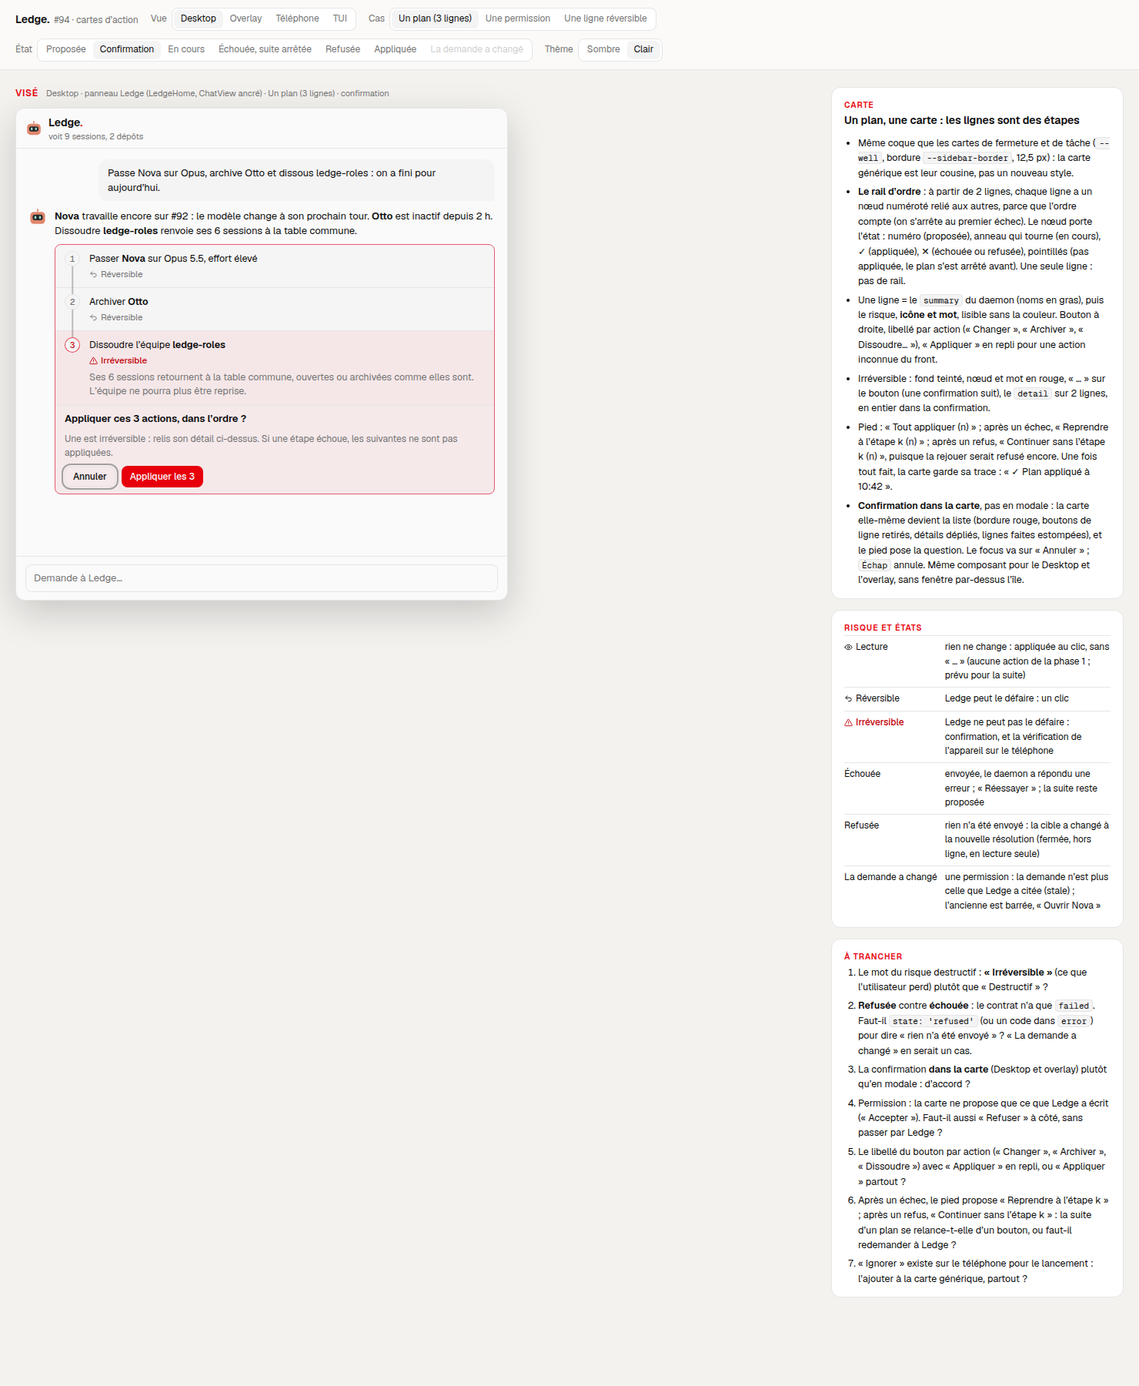
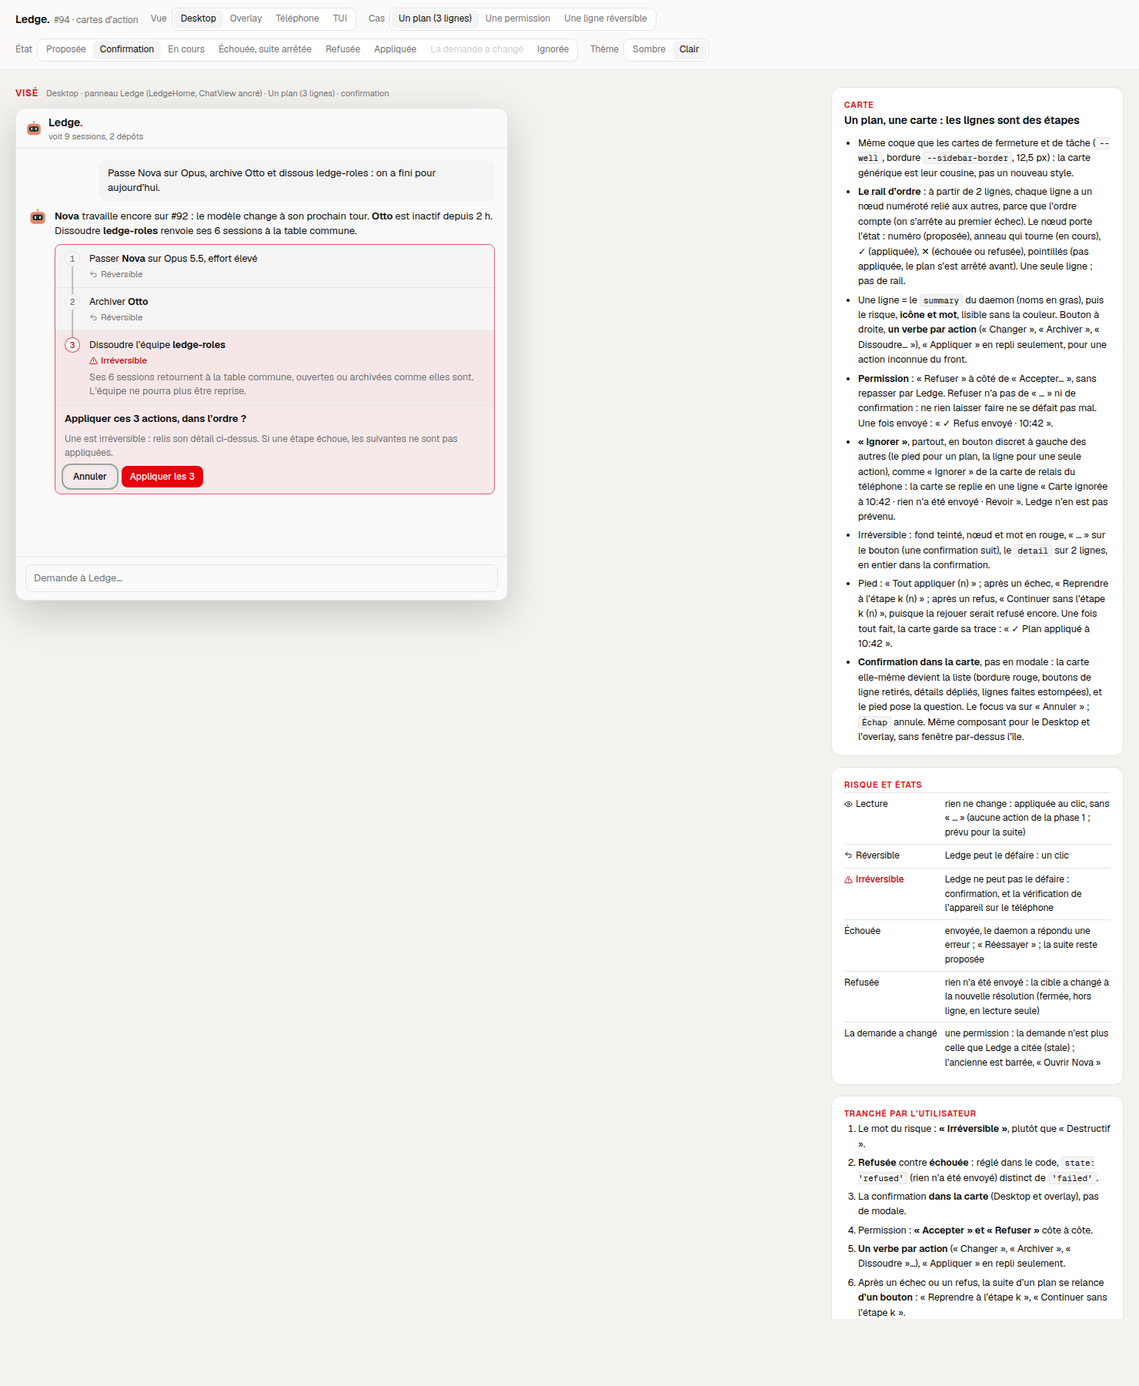
docs(mockups): action cards (#94) follow the user's decisions — Refuser beside Accepter, Ignorer everywhere
« À trancher » becomes « Tranché par l'utilisateur ». A permission offers
Refuser next to Accepter… (n in the TUI); every generic card gets a quiet
Ignorer (esc in the TUI) that folds it into a trace line, a new « Ignorée »
state. Captures redone, plus ignored and permission ones.

Changed region(s): [[0.7459, 0.2178, 0.9635, 0.9644], [0.4662, 0.0311, 0.4973, 0.0622]]

diff --git a/docs/mockups/ledge-action-card.html b/docs/mockups/ledge-action-card.html
@@ -121,6 +121,8 @@ svg.i{width:12px;height:12px;flex:none;fill:none;stroke:currentColor;stroke-widt
 .btn.danger{color:var(--danger-text);border-color:color-mix(in srgb,var(--destructive) 50%,var(--input))}
 .btn.danger.fill{background:var(--destructive);color:var(--destructive-foreground);border-color:transparent;height:28px}
 .btn.ghost{border-color:transparent;color:var(--muted-foreground)}
+.ignored{display:flex;align-items:center;gap:8px;font-size:12px;color:var(--muted-foreground)}
+.ignored .btn{height:22px;padding:0 6px}
 .btn:disabled{opacity:.5;cursor:default}
 .btn:focus-visible{outline:2px solid var(--ring);outline-offset:2px}
 .btn .spin{width:10px;height:10px;border-radius:50%;border:1.5px solid currentColor;border-right-color:transparent;animation:spin .8s linear infinite}
@@ -174,6 +176,10 @@ svg.i{width:12px;height:12px;flex:none;fill:none;stroke:currentColor;stroke-widt
 .pbtn.danger{color:var(--danger-fg);border-color:#f4a5a366}
 .pbtn.danger.fill{background:var(--danger-btn);color:#fff;border-color:transparent;font-weight:600}
 .pbtn.full{width:100%}
+.pbtn.ghost{border-color:transparent;color:var(--muted)}
+.prow .act .pbtn,.pfoot .pbtn{flex:none}
+.pfoot .go{display:flex;gap:8px}
+.pfoot .go .primary{flex:1}
 .pbtn:disabled{opacity:.4}
 .pfoot{display:flex;flex-direction:column;gap:8px}
 .pfoot .hint{font-size:12.5px;color:var(--muted)}
@@ -236,7 +242,7 @@ const CASES = {
         detail: 'Ses 6 sessions retournent à la table commune, ouvertes ou archivées comme elles sont. L’équipe ne pourra plus être reprise.' }
     ],
     // Row states per step of the story: p proposed, run, done, fail, refused, held (not applied: the plan stopped before it).
-    states: { proposed: ['p', 'p', 'p'], confirm: ['p', 'p', 'p'], running: ['done', 'run', 'p'], failed: ['done', 'fail', 'held'], refused: ['done', 'refused', 'held'], done: ['done', 'done', 'done'] },
+    states: { ignored: ['p', 'p', 'p'], proposed: ['p', 'p', 'p'], confirm: ['p', 'p', 'p'], running: ['done', 'run', 'p'], failed: ['done', 'fail', 'held'], refused: ['done', 'refused', 'held'], done: ['done', 'done', 'done'] },
     why: { fail: 'Otto est sur la machine Atlas, hors ligne depuis 10:12.', refused: 'Otto a été fermé entre-temps : il n’y a plus rien à archiver.' }
   },
   permission: {
@@ -244,11 +250,11 @@ const CASES = {
     q: 'Accepte la demande de Nova.',
     a: '**Nova** attend ta réponse depuis 4 min, dans ledge sur feat/task-handoff. Voici sa demande telle quelle :',
     rows: [
-      { action: 'session.decide', risk: 'destructive', sum: 'Accepter la demande de **Nova**', btn: 'Accepter', tui: 'Accepter la demande de Nova',
+      { action: 'session.decide', risk: 'destructive', sum: 'Accepter la demande de **Nova**', btn: 'Accepter', deny: 'Refuser', tui: 'Accepter la demande de Nova',
         request: { kind: 'Bash · reconstruire le daemon', text: 'rm -rf packages/ledge/dist && pnpm --filter @ledge/ledge build' },
         newRequest: { kind: 'Bash', text: 'git push --force origin feat/task-handoff' } }
     ],
-    states: { proposed: ['p'], confirm: ['p'], running: ['run'], failed: ['fail'], refused: ['refused'], done: ['done'], stale: ['stale'] },
+    states: { proposed: ['p'], confirm: ['p'], running: ['run'], failed: ['fail'], refused: ['refused'], done: ['done'], stale: ['stale'], ignored: ['p'] },
     why: { fail: 'Nova s’est arrêtée avant de recevoir la réponse.', refused: 'la machine Atlas est hors ligne.' }
   },
   one: {
@@ -256,11 +262,11 @@ const CASES = {
     q: 'Passe Otto en effort bas, il ne fait que relire.',
     a: '**Otto** tourne sur Sonnet 5.5, effort moyen. Je garde le modèle et baisse l’effort.',
     rows: [{ action: 'session.model', risk: 'reversible', sum: 'Passer **Otto** en effort bas, Sonnet 5.5 inchangé', btn: 'Changer', tui: 'Passer Otto en effort bas, Sonnet 5.5 inchangé' }],
-    states: { proposed: ['p'], confirm: ['p'], running: ['run'], failed: ['fail'], refused: ['refused'], done: ['done'] },
+    states: { proposed: ['p'], confirm: ['p'], running: ['run'], failed: ['fail'], refused: ['refused'], done: ['done'], ignored: ['p'] },
     why: { fail: 'Otto est sur la machine Atlas, hors ligne depuis 10:12.', refused: 'Otto a été fermé entre-temps.' }
   }
 };
-const ETATS = [['proposed', 'Proposée'], ['confirm', 'Confirmation'], ['running', 'En cours'], ['failed', 'Échouée, suite arrêtée'], ['refused', 'Refusée'], ['done', 'Appliquée'], ['stale', 'La demande a changé']];
+const ETATS = [['proposed', 'Proposée'], ['confirm', 'Confirmation'], ['running', 'En cours'], ['failed', 'Échouée, suite arrêtée'], ['refused', 'Refusée'], ['done', 'Appliquée'], ['stale', 'La demande a changé'], ['ignored', 'Ignorée']];
 const AT = '10:42';
 
 function model() {
@@ -279,6 +285,8 @@ function model() {
 }
 
 // ---- Desktop and overlay: one component, ActionCard ----
+// « Ignorer » hides the card, sends nothing; a quiet line keeps its trace in the chat (like the phone's RelayCard).
+const IGNORE = '<button class="btn ghost" type="button">Ignorer</button>';
 function nodeOf(s, i) {
   if (s === 'done') return `<span class="node done" aria-label="Étape ${i + 1}, appliquée">${ic('check', 11)}</span>`;
   if (s === 'fail') return `<span class="node fail" aria-label="Étape ${i + 1}, échouée">${ic('x', 11)}</span>`;
@@ -297,10 +305,10 @@ function rowHTML(m, i, narrow) {
   const dots = r.risk === 'destructive' ? '…' : '';
   let side = '';
   if (asking) side = s === 'done' ? `<span class="st ok">${ic('check', 11)} déjà faite</span>` : '';
-  else if (s === 'p' || s === 'held') side = `<button class="btn${r.risk === 'destructive' ? ' danger' : ''}" type="button">${r.btn}${dots}</button>`;
+  else if (s === 'p' || s === 'held') side = `${!many && s === 'p' ? IGNORE : ''}${r.deny ? `<button class="btn" type="button">${r.deny}</button>` : ''}<button class="btn${r.risk === 'destructive' ? ' danger' : ''}" type="button">${r.btn}${dots}</button>`;
   else if (s === 'run') side = `<button class="btn" type="button" disabled><span class="spin"></span>En cours…</button>`;
   else if (s === 'done') side = `<span class="st ok">${ic('check', 11)} Appliquée · ${AT}</span>`;
-  else if (s === 'fail') side = `<button class="btn" type="button">Réessayer</button>`;
+  else if (s === 'fail') side = `${many ? '' : IGNORE}<button class="btn" type="button">Réessayer</button>`;
   else if (s === 'refused') side = `<span class="st">Refusée</span>`;
   else if (s === 'stale') side = `<button class="btn" type="button">${ic('ext', 11)}Ouvrir Nova</button>`;
   let body = `<div class="sum">${md(r.sum)}</div>`;
@@ -328,10 +336,11 @@ function footHTML(m) {
   if (states.every(s => s === 'done')) return `<div class="afoot"><span class="done-line">${ic('check', 12)} Plan appliqué à ${AT}</span></div>`;
   if (states.includes('run')) return `<div class="afoot"><button class="btn primary" type="button" disabled><span class="spin"></span>Étape ${states.indexOf('run') + 1} sur ${c.rows.length}…</button><span class="hint">dans l’ordre, s’arrête au premier échec</span></div>`;
   const left = open.length, d = destructive.length ? '…' : '';
-  if (stopAt >= 0) return `<div class="afoot"><button class="btn primary" type="button">${ic('play', 10)}${m.all}${d}</button><span class="hint">les étapes faites ne sont pas rejouées</span></div>`;
-  return `<div class="afoot"><button class="btn primary" type="button">${ic('play', 10)}Tout appliquer (${left})${d}</button><span class="hint">dans l’ordre, s’arrête au premier échec${destructive.length ? ` · ${destructive.length} irréversible, je te redemanderai` : ''}</span></div>`;
+  if (stopAt >= 0) return `<div class="afoot"><button class="btn primary" type="button">${ic('play', 10)}${m.all}${d}</button><span class="hint">les étapes faites ne sont pas rejouées</span>${IGNORE}</div>`;
+  return `<div class="afoot"><button class="btn primary" type="button">${ic('play', 10)}Tout appliquer (${left})${d}</button><span class="hint">dans l’ordre, s’arrête au premier échec${destructive.length ? ` · ${destructive.length} irréversible, je te redemanderai` : ''}</span>${IGNORE}</div>`;
 }
 function card(m, narrow) {
+  if (st.etat === 'ignored') return `<div class="ignored">${ic('x', 11)}${m.many ? `Plan de ${m.c.rows.length} actions ignoré` : 'Carte ignorée'} à ${AT} · rien n’a été envoyé<button class="btn ghost" type="button">Revoir</button></div>`;
   return `<section class="acard${m.many ? '' : ' one'}${m.asking ? ' asking' : ''}" aria-label="${m.many ? `Plan de ${m.c.rows.length} actions` : 'Action proposée'}">${m.c.rows.map((_, i) => rowHTML(m, i, narrow)).join('')}${footHTML(m)}</section>`;
 }
 function chatTurn(m, narrow) {
@@ -358,10 +367,10 @@ function phone() {
   const rows = c.rows.map((r, i) => {
     const s = states[i];
     let act = '';
-    if (s === 'p' || s === 'held') act = `<button class="pbtn${r.risk === 'destructive' ? ' danger' : ''}" type="button">${r.btn}${r.risk === 'destructive' ? '…' : ''}</button>`;
+    if (s === 'p' || s === 'held') act = `${!many && s === 'p' ? '<button class="pbtn ghost" type="button">Ignorer</button>' : ''}${r.deny ? `<button class="pbtn" type="button">${r.deny}</button>` : ''}<button class="pbtn${r.risk === 'destructive' ? ' danger' : ''}" type="button">${r.btn}${r.risk === 'destructive' ? '…' : ''}</button>`;
     else if (s === 'run') act = `<span class="st">En cours…</span>`;
     else if (s === 'done') act = `<span class="st ok">✓ Appliquée · ${AT}</span>`;
-    else if (s === 'fail') act = `<button class="pbtn" type="button">Réessayer</button>`;
+    else if (s === 'fail') act = `${many ? '' : '<button class="pbtn ghost" type="button">Ignorer</button>'}<button class="pbtn" type="button">Réessayer</button>`;
     else if (s === 'refused') act = `<span class="st">Refusée</span>`;
     else if (s === 'stale') act = `<a class="pbtn" style="text-decoration:none">Ouvrir Nova</a>`;
     let body = `<div class="sum">${md(r.sum)}</div><div class="meta">${riskChip(r.risk)}</div>`;
@@ -376,7 +385,7 @@ function phone() {
   let foot = '';
   if (many && states.every(s => s === 'done')) foot = `<div class="pfoot"><span class="st ok" style="color:var(--ok);font-size:13px">✓ Plan appliqué à ${AT}</span></div>`;
   else if (many && states.includes('run')) foot = `<div class="pfoot"><button class="pbtn primary full" type="button" disabled>Étape ${states.indexOf('run') + 1} sur ${c.rows.length}…</button></div>`;
-  else if (many) foot = `<div class="pfoot"><button class="pbtn primary full" type="button">${m.all}${destructive.length ? '…' : ''}</button><span class="hint">Dans l’ordre ; s’arrête au premier échec.</span></div>`;
+  else if (many) foot = `<div class="pfoot"><div class="go"><button class="pbtn ghost" type="button">Ignorer</button><button class="pbtn primary" type="button">${m.all}${destructive.length ? '…' : ''}</button></div><span class="hint">Dans l’ordre ; s’arrête au premier échec.</span></div>`;
   const sheetRows = open.map((i, k) => {
     const r = c.rows[i];
     return `<li class="prow ${r.risk}${k === open.length - 1 ? ' last' : ''}" style="border:0;padding:0${many ? '' : ';grid-template-columns:minmax(0,1fr)'}">${many ? nodeOf('p', i) : ''}<div><div class="sum">${md(r.sum)}</div><div class="meta">${riskChip(r.risk)}</div>${r.detail ? `<div class="detail">${esc(r.detail)}</div>` : ''}${r.request ? request(r) : ''}</div></li>`;
@@ -392,7 +401,7 @@ function phone() {
     <div class="phone"><div class="status"><span>10:41</span><span>●●● ▮</span></div>
       <div class="ph-head"><span style="color:var(--muted)">${ic('chev', 18)}</span>${bot(22)}<b>Ledge</b></div>
       <div class="ph-body"><span class="q">${esc(c.q)}</span><p class="answer">${md(c.a)}</p>
-        <section class="pcard${many ? '' : ' one'}" aria-label="${many ? 'Plan' : 'Action proposée'}">${rows}${foot}</section></div>${sheet}</div>`;
+        ${st.etat === 'ignored' ? `<p class="st" style="margin:0;font-size:13px;color:var(--muted)">${many ? `Plan de ${c.rows.length} actions ignoré` : 'Carte ignorée'} à ${AT} · rien n’a été envoyé · <u>Revoir</u></p>` : `<section class="pcard${many ? '' : ' one'}" aria-label="${many ? 'Plan' : 'Action proposée'}">${rows}${foot}</section>`}</div>${sheet}</div>`;
 }
 
 // ---- The TUI: the Ask screen, the card as a TitledBox ----
@@ -427,13 +436,14 @@ function tui() {
   conv.push([[`  lu : les sessions · teams.md`, 'c-faint']]);
   conv.push([['']]);
   for (const l of wrapText(plain(c.a), W - 8)) conv.push([['  '], [l, 'c-fg']]);
+  if (st.etat === 'ignored') { conv.push([['']]); conv.push([[`  · ${many ? `plan de ${c.rows.length} actions ignoré` : 'carte ignorée'} à ${AT}, rien n’a été envoyé`, 'c-faint']]); }
   if (states.every(s => s === 'done')) { conv.push([['']]); conv.push([[`  ✓ ${many ? `Plan appliqué à ${AT} : Nova sur Opus 5.5 · Otto archivé · ledge-roles dissoute` : `${plain(c.rows[0].sum)} · ${AT}`}`, 'c-green']]); }
   L.push(boxTop('Ledge · Opérateur · voit 9 sessions, 1 machine', 'c-line', 'c-dim'));
   for (const s of conv) L.push(inBox(s, 'c-line'));
   for (let i = conv.length; i < 9; i++) L.push(inBox([['']], 'c-line'));
   L.push(bottom('c-line'));
   // The card, while something is left to do.
-  const settled = states.every(s => s === 'done');
+  const settled = states.every(s => s === 'done') || st.etat === 'ignored';
   if (!settled) {
     const asking = m.asking;
     const border = asking ? 'c-red dbl' : 'c-coral';
@@ -471,8 +481,9 @@ function tui() {
     else {
       const r = c.rows[focusRow] ?? c.rows[0];
       const rowBtn = btn(states[focusRow] === 'fail' ? 'Réessayer' : `${r.btn}${r.risk === 'destructive' ? '…' : ''}`, '↵', r.risk === 'destructive' ? '-d' : '-p');
-      keys = many ? [...rowBtn, ['  '], ...btn(`${m.all}${destructive.length ? '…' : ''}`, 'a'), ['   ↑↓ choisir · dans l’ordre, s’arrête au premier échec', 'c-faint']]
-        : [...rowBtn, ['   Ledge ne fait rien sans toi.', 'c-faint']];
+      const deny = r.deny && states[focusRow] === 'p' ? [['  '], ...btn(r.deny, 'n')] : [];
+      keys = many ? [...rowBtn, ['  '], ...btn(`${m.all}${destructive.length ? '…' : ''}`, 'a'), ['  '], ...btn('Ignorer', 'esc'), ['   ↑↓ choisir', 'c-faint']]
+        : [...rowBtn, ...deny, ['  '], ...btn('Ignorer', 'esc'), ['   Ledge ne fait rien sans toi.', 'c-faint']];
     }
     L.push(inBox(keys, border));
     L.push(bottom(border));
@@ -482,7 +493,7 @@ function tui() {
   L.push(bottom('c-line'));
   const keybar = m.asking ? [['y', 'c-fg'], [' appliquer   ', 'c-dim'], ['esc', 'c-fg'], [' annuler', 'c-dim']]
     : settled || st.etat === 'stale' ? [['tab', 'c-fg'], [' carte suivante   ', 'c-dim'], ['ctrl+n', 'c-fg'], [' nouvelle   ', 'c-dim'], ['esc', 'c-fg'], [' retour', 'c-dim']]
-    : [['↵', 'c-fg'], [many ? ' appliquer la ligne   ' : ' appliquer   ', 'c-dim'], ...(many ? [['a', 'c-fg'], [' tout appliquer   ', 'c-dim'], ['↑↓', 'c-fg'], [' ligne   ', 'c-dim']] : []), ['tab', 'c-fg'], [' carte suivante   ', 'c-dim'], ['ctrl+n', 'c-fg'], [' nouvelle   ', 'c-dim'], ['esc', 'c-fg'], [' retour', 'c-dim']];
+    : [['↵', 'c-fg'], [many ? ' appliquer la ligne   ' : ' appliquer   ', 'c-dim'], ...(many ? [['a', 'c-fg'], [' tout appliquer   ', 'c-dim'], ['↑↓', 'c-fg'], [' ligne   ', 'c-dim']] : []), ...(st.cas === 'permission' ? [['n', 'c-fg'], [' refuser   ', 'c-dim']] : []), ['esc', 'c-fg'], [' ignorer   ', 'c-dim'], ['tab', 'c-fg'], [' carte suivante   ', 'c-dim'], ['ctrl+n', 'c-fg'], [' nouvelle', 'c-dim']];
   L.push(ln([[' '], ...keybar]));
   return `<p class="cap"><b>Visé</b> TUI · l’écran Demander, ${W} colonnes · ${esc(c.label)} · ${label()}</p><div class="term">${L.join('')}</div>`;
 }
@@ -492,13 +503,16 @@ const NOTES = {
   card: `<div class="note"><h3>Carte</h3><h4>Un plan, une carte : les lignes sont des étapes</h4><ul>
     <li>Même coque que les cartes de fermeture et de tâche (<code>--well</code>, bordure <code>--sidebar-border</code>, 12,5 px) : la carte générique est leur cousine, pas un nouveau style.</li>
     <li><b>Le rail d’ordre</b> : à partir de 2 lignes, chaque ligne a un nœud numéroté relié aux autres, parce que l’ordre compte (on s’arrête au premier échec). Le nœud porte l’état : numéro (proposée), anneau qui tourne (en cours), ✓ (appliquée), ✕ (échouée ou refusée), pointillés (pas appliquée, le plan s’est arrêté avant). Une seule ligne : pas de rail.</li>
-    <li>Une ligne = le <code>summary</code> du daemon (noms en gras), puis le risque, <b>icône et mot</b>, lisible sans la couleur. Bouton à droite, libellé par action (« Changer », « Archiver », « Dissoudre… »), « Appliquer » en repli pour une action inconnue du front.</li>
+    <li>Une ligne = le <code>summary</code> du daemon (noms en gras), puis le risque, <b>icône et mot</b>, lisible sans la couleur. Bouton à droite, <b>un verbe par action</b> (« Changer », « Archiver », « Dissoudre… »), « Appliquer » en repli seulement, pour une action inconnue du front.</li>
+    <li><b>Permission</b> : « Refuser » à côté de « Accepter… », sans repasser par Ledge. Refuser n’a pas de « … » ni de confirmation : ne rien laisser faire ne se défait pas mal. Une fois envoyé : « ✓ Refus envoyé · 10:42 ».</li>
+    <li><b>« Ignorer »</b>, partout, en bouton discret à gauche des autres (le pied pour un plan, la ligne pour une seule action), comme « Ignorer » de la carte de relais du téléphone : la carte se replie en une ligne « Carte ignorée à 10:42 · rien n’a été envoyé · Revoir ». Ledge n’en est pas prévenu.</li>
     <li>Irréversible : fond teinté, nœud et mot en rouge, « … » sur le bouton (une confirmation suit), le <code>detail</code> sur 2 lignes, en entier dans la confirmation.</li>
     <li>Pied : « Tout appliquer (n) » ; après un échec, « Reprendre à l’étape k (n) » ; après un refus, « Continuer sans l’étape k (n) », puisque la rejouer serait refusé encore. Une fois tout fait, la carte garde sa trace : « ✓ Plan appliqué à 10:42 ».</li>
     <li><b>Confirmation dans la carte</b>, pas en modale : la carte elle-même devient la liste (bordure rouge, boutons de ligne retirés, détails dépliés, lignes faites estompées), et le pied pose la question. Le focus va sur « Annuler » ; <kbd>Échap</kbd> annule. Même composant pour le Desktop et l’overlay, sans fenêtre par-dessus l’île.</li></ul></div>`,
   phone: `<div class="note"><h3>Téléphone</h3><h4>La même carte, une feuille pour confirmer</h4><ul>
     <li>Les jetons du téléphone (sombre seulement), les boutons de 44 px, le bouton de ligne <b>sous</b> le texte : la largeur ne permet pas de les mettre côte à côte.</li>
     <li>Confirmer ouvre une feuille par le bas qui reprend chaque ligne à appliquer avec son détail entier, puis la vérification de l’appareil (<code>ConfirmPurpose</code> <code>act</code>, sujet le qid ; <code>decide</code> pour une permission). Le texte est celui de la confirmation actuelle (« Elle confirme votre identité, pas la sûreté de la commande »).</li>
+    <li>« Ignorer » en bouton fantôme à gauche, comme la carte de relais ; pour une permission, trois boutons sur une ligne : Ignorer, Refuser, Accepter….</li>
     <li>Une ligne réversible sans vérification (<code>phone: null</code>) s’applique au toucher, sans feuille.</li>
     <li>Vérification annulée ou expirée : la carte reste proposée et dit « Vérification annulée. Rien n’a été envoyé. » (texte existant).</li></ul></div>`,
   tui: `<div class="note"><h3>TUI</h3><h4>Une boîte de plus, des lignes qu’on choisit</h4><ul>
@@ -506,6 +520,7 @@ const NOTES = {
     <li><kbd>↑</kbd><kbd>↓</kbd> choisit la ligne (▸), <kbd>↵</kbd> l’applique, <kbd>a</kbd> applique tout. Le détail d’une ligne irréversible est toujours affiché, en estompé.</li>
     <li>Confirmer : la boîte passe au rouge, en trait double, liste tout, et ne se valide qu’avec <kbd>y</kbd>. <kbd>↵</kbd> ne confirme pas, pour qu’un double appui ne dissolve rien.</li>
     <li>La demande d’une permission est citée en entier, repliée sur la largeur, jamais tronquée.</li>
+    <li>Permission : <kbd>n</kbd> refuse, comme sur la carte de session. <kbd>esc</kbd> ignore la carte (comme la carte de lancement de Demander) ; la boîte disparaît et une ligne estompée reste dans la conversation.</li>
     <li>Une fois tout fait, la boîte disparaît et une ligne verte reste dans la conversation, comme pour l’équipe et les tâches.</li></ul></div>`,
   risks: `<div class="note"><h3>Risque et états</h3><table>
     <tr><td>${riskChip('read')}</td><td>rien ne change : appliquée au clic, sans « … » (aucune action de la phase 1 ; prévu pour la suite)</td></tr>
@@ -515,14 +530,14 @@ const NOTES = {
     <tr><td>Refusée</td><td>rien n’a été envoyé : la cible a changé à la nouvelle résolution (fermée, hors ligne, en lecture seule)</td></tr>
     <tr><td>La demande a changé</td><td>une permission : la demande n’est plus celle que Ledge a citée (stale) ; l’ancienne est barrée, « Ouvrir Nova »</td></tr></table></div>`
 };
-const OPEN = `<div class="note"><h3>À trancher</h3><ol>
-  <li>Le mot du risque destructif : <b>« Irréversible »</b> (ce que l’utilisateur perd) plutôt que « Destructif » ?</li>
-  <li><b>Refusée</b> contre <b>échouée</b> : le contrat n’a que <code>failed</code>. Faut-il <code>state: 'refused'</code> (ou un code dans <code>error</code>) pour dire « rien n’a été envoyé » ? « La demande a changé » en serait un cas.</li>
-  <li>La confirmation <b>dans la carte</b> (Desktop et overlay) plutôt qu’en modale : d’accord ?</li>
-  <li>Permission : la carte ne propose que ce que Ledge a écrit (« Accepter »). Faut-il aussi « Refuser » à côté, sans passer par Ledge ?</li>
-  <li>Le libellé du bouton par action (« Changer », « Archiver », « Dissoudre ») avec « Appliquer » en repli, ou « Appliquer » partout ?</li>
-  <li>Après un échec, le pied propose « Reprendre à l’étape k » ; après un refus, « Continuer sans l’étape k » : la suite d’un plan se relance-t-elle d’un bouton, ou faut-il redemander à Ledge ?</li>
-  <li>« Ignorer » existe sur le téléphone pour le lancement : l’ajouter à la carte générique, partout ?</li></ol></div>`;
+const OPEN = `<div class="note"><h3>Tranché par l’utilisateur</h3><ol>
+  <li>Le mot du risque : <b>« Irréversible »</b>, plutôt que « Destructif ».</li>
+  <li><b>Refusée</b> contre <b>échouée</b> : réglé dans le code, <code>state: 'refused'</code> (rien n’a été envoyé) distinct de <code>'failed'</code>.</li>
+  <li>La confirmation <b>dans la carte</b> (Desktop et overlay), pas de modale.</li>
+  <li>Permission : <b>« Accepter » et « Refuser »</b> côte à côte.</li>
+  <li><b>Un verbe par action</b> (« Changer », « Archiver », « Dissoudre »…), « Appliquer » en repli seulement.</li>
+  <li>Après un échec ou un refus, la suite d’un plan se relance <b>d’un bouton</b> : « Reprendre à l’étape k », « Continuer sans l’étape k ».</li>
+  <li><b>« Ignorer »</b> sur la carte générique, partout.</li></ol></div>`;
 
 // ---- Chrome ----
 function label() { return ETATS.find(([k]) => k === st.etat)[1].toLowerCase(); }
